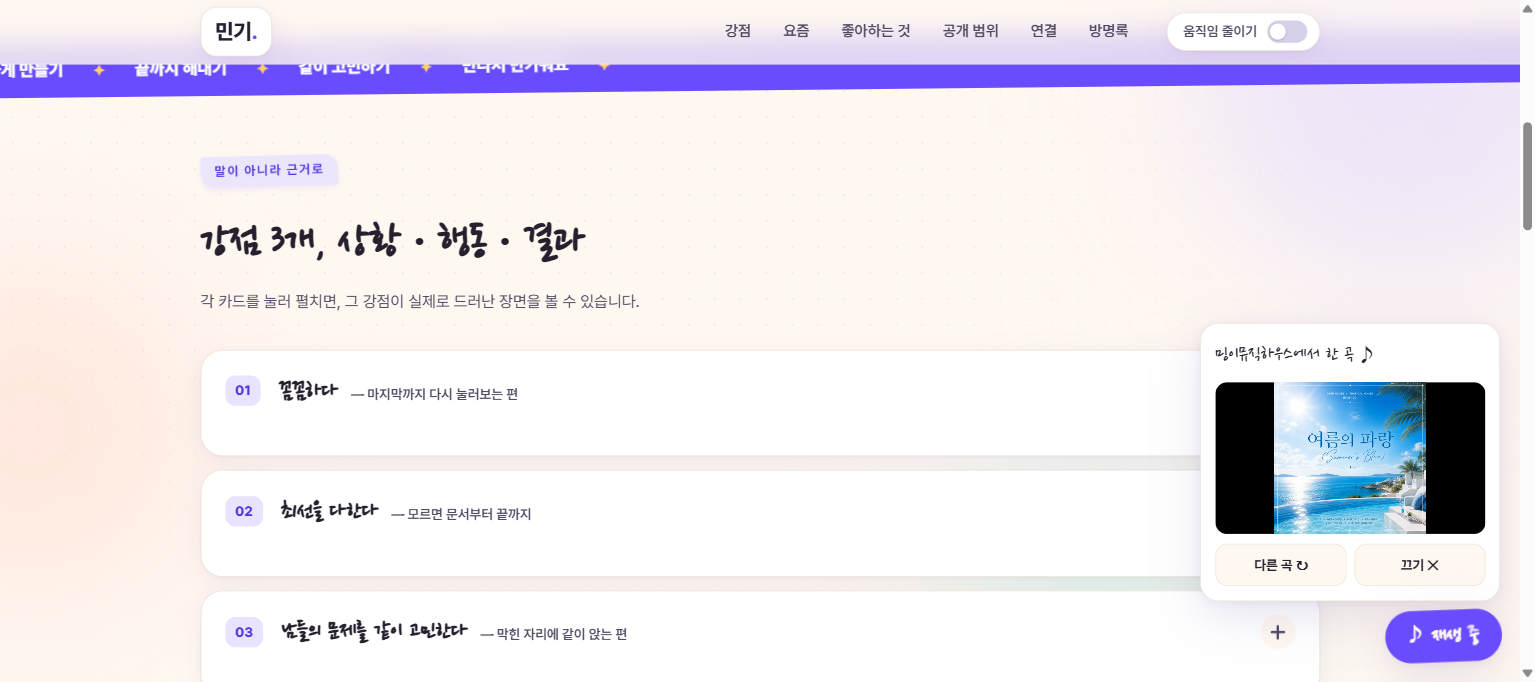
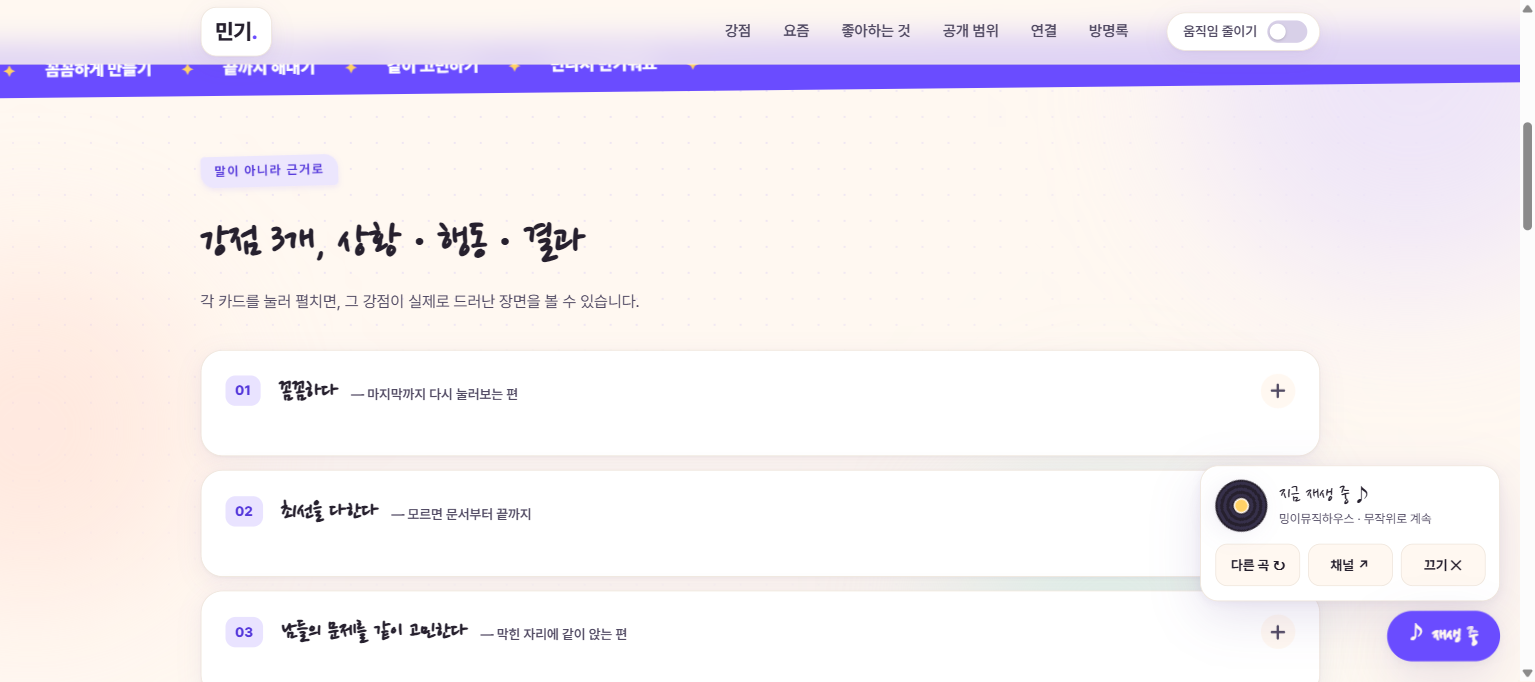
BGM을 LP판 카드로 재설계: 영상 숨김, 재생목록 연속재생, 채널 링크 + 방명록 카드 다듬기

diff --git a/styles.css b/styles.css
@@ -827,32 +827,64 @@ h2 {
   transform-origin: bottom right;
   animation: pop .3s ease;
 }
+.bgm-now { display: flex; align-items: center; gap: 12px; }
+.bgm-disc {
+  width: 52px;
+  height: 52px;
+  border-radius: 50%;
+  flex-shrink: 0;
+  background: repeating-radial-gradient(circle, #26202E 0 3px, #36304A 3px 6px);
+  position: relative;
+  box-shadow: var(--shadow);
+  animation: discSpin 7s linear infinite;
+}
+.bgm-disc::after {
+  content: "";
+  position: absolute;
+  inset: 36%;
+  border-radius: 50%;
+  background: var(--butter);
+  border: 2px solid #FFF8F1;
+}
+@keyframes discSpin { to { transform: rotate(360deg); } }
 .bgm-title {
   font-family: var(--hand);
   font-size: 1.3rem;
-  margin-bottom: 10px;
+  line-height: 1.1;
 }
-.bgm-frame iframe {
-  width: 100%;
-  aspect-ratio: 16 / 9;
-  border: 0;
-  border-radius: 12px;
-  display: block;
+.bgm-sub { font-size: .78rem; color: var(--ink-2); margin-top: 2px; }
+
+/* 영상은 숨기고 소리만 — 재생용 1px 프레임 */
+.bgm-frame {
+  position: fixed;
+  right: 0;
+  bottom: 0;
+  width: 2px;
+  height: 2px;
+  overflow: hidden;
+  opacity: .01;
+  pointer-events: none;
 }
-.bgm-actions { display: flex; gap: 8px; margin-top: 10px; }
-.bgm-actions button {
+.bgm-frame iframe { width: 2px; height: 2px; border: 0; display: block; }
+
+.bgm-actions { display: flex; gap: 8px; margin-top: 12px; }
+.bgm-actions button,
+.bgm-actions .bgm-channel {
   flex: 1;
   font: inherit;
   font-size: .85rem;
   font-weight: 700;
-  padding: 9px;
+  padding: 9px 6px;
   border-radius: 12px;
   border: 1px solid var(--line);
   background: var(--bg);
   color: var(--ink);
   cursor: pointer;
+  text-align: center;
+  text-decoration: none;
 }
-.bgm-actions button:hover { background: var(--lavender); }
+.bgm-actions button:hover,
+.bgm-actions .bgm-channel:hover { background: var(--lavender); }
 
 /* ----- 방명록 ----- */
 .guestbook {
@@ -861,13 +893,28 @@ h2 {
   border-radius: var(--radius);
   padding: 22px;
   box-shadow: var(--shadow);
+  overflow: hidden;
 }
 .guestbook-note {
+  position: relative;
   font-family: var(--hand);
   font-size: 1.3rem;
   color: var(--ink-2);
   margin-bottom: 14px;
+  display: flex;
+  align-items: center;
+  gap: 10px;
 }
+.gb-tape {
+  display: inline-block;
+  width: 14px;
+  height: 34px;
+  background: rgba(255, 209, 102, .55);
+  transform: rotate(-8deg);
+  border-radius: 2px;
+  flex-shrink: 0;
+}
+.guestbook .utterances { border-radius: 14px; }
 
 /* ----- 푸터 ----- */
 .site-footer {

diff --git a/bgm.js b/bgm.js
@@ -1,4 +1,4 @@
-// ===== BGM: 밍이뮤직하우스 채널 곡 랜덤 재생 =====
+// ===== BGM: 밍이뮤직하우스 채널 곡 랜덤·연속 재생 =====
 // 채널 영상 ID 목록 — 새 곡을 올리면 여기에 ID를 추가하면 됩니다
 const BGM_VIDEOS = [
   'XzVaZt1SUtQ', '2Cg3SAJSYek', 'zZNJzBf1IZo', 'nzJPLW7Q1WU',
@@ -18,18 +18,26 @@ const bgmNext = document.getElementById('bgmNext');
 const bgmClose = document.getElementById('bgmClose');
 let bgmLast = -1;
 
-function bgmPick() {
-  let i;
-  do { i = Math.floor(Math.random() * BGM_VIDEOS.length); } while (i === bgmLast);
-  bgmLast = i;
-  return BGM_VIDEOS[i];
+function bgmShuffled() {
+  return BGM_VIDEOS.slice().sort(() => Math.random() - 0.5);
+}
+
+function bgmPick(queue) {
+  // 첫 곡은 이전과 다른 걸로
+  let id;
+  do { id = queue.shift(); } while (id === BGM_VIDEOS[bgmLast] && queue.length);
+  return id;
 }
 
 function bgmPlay() {
-  const id = bgmPick();
+  const queue = bgmShuffled();
+  const first = bgmPick(queue);
+  bgmLast = BGM_VIDEOS.indexOf(first);
+  // playlist: 첫 곡 + 섞인 나머지 — 곡이 끝나면 다음 곡으로 이어지고 다 돌면 반복
+  const list = [first, ...queue].join(',');
   bgmFrame.innerHTML =
-    `<iframe src="https://www.youtube-nocookie.com/embed/${id}?autoplay=1&rel=0"` +
-    ` title="유튜브 음악 플레이어" allow="autoplay; encrypted-media; picture-in-picture" allowfullscreen></iframe>`;
+    `<iframe src="https://www.youtube-nocookie.com/embed/${first}?autoplay=1&rel=0&loop=1&playlist=${list}"` +
+    ` title="유튜브 음악 플레이어" allow="autoplay; encrypted-media; picture-in-picture" tabindex="-1"></iframe>`;
   bgmCard.hidden = false;
   bgmChip.setAttribute('aria-expanded', 'true');
   bgmChip.classList.add('playing');

diff --git a/index.html b/index.html
@@ -293,7 +293,7 @@
         <p class="section-sub">GitHub 계정으로 댓글을 남기면 이 페이지의 방명록이 됩니다. 첫 번째 글의 주인공이 되어 주세요.</p>
       </div>
       <div class="guestbook">
-        <p class="guestbook-note">읽고 가셨다면 발자국 하나 찍고 가세요 ✎</p>
+        <p class="guestbook-note"><span class="gb-tape" aria-hidden="true"></span>읽고 가셨다면 발자국 하나 찍고 가세요 ✎</p>
         <script src="https://utteranc.es/client.js"
                 repo="sterran123/about-me"
                 issue-term="pathname"
@@ -308,13 +308,20 @@
 
   <div class="bgm" id="bgm">
     <div class="bgm-card" id="bgmCard" hidden>
-      <p class="bgm-title">밍이뮤직하우스에서 한 곡 ♪</p>
-      <div class="bgm-frame" id="bgmFrame"></div>
+      <div class="bgm-now">
+        <span class="bgm-disc" aria-hidden="true"></span>
+        <div class="bgm-now-text">
+          <p class="bgm-title">지금 재생 중 ♪</p>
+          <p class="bgm-sub">밍이뮤직하우스 · 무작위로 계속</p>
+        </div>
+      </div>
       <div class="bgm-actions">
         <button type="button" id="bgmNext">다른 곡 ↻</button>
+        <a class="bgm-channel" href="https://www.youtube.com/@%EB%B0%8D%EC%9D%B4%EB%AE%A4%EC%A7%81%ED%95%98%EC%9A%B0%EC%8A%A4" target="_blank" rel="noopener">채널 ↗<span class="sr-only">(새 탭에서 열림)</span></a>
         <button type="button" id="bgmClose">끄기 ✕</button>
       </div>
     </div>
+    <div class="bgm-frame" id="bgmFrame" aria-hidden="true"></div>
     <button class="bgm-chip" id="bgmChip" type="button" aria-expanded="false" aria-controls="bgmCard">
       <span class="bgm-note" aria-hidden="true">♪</span> 노래 틀기
     </button>
